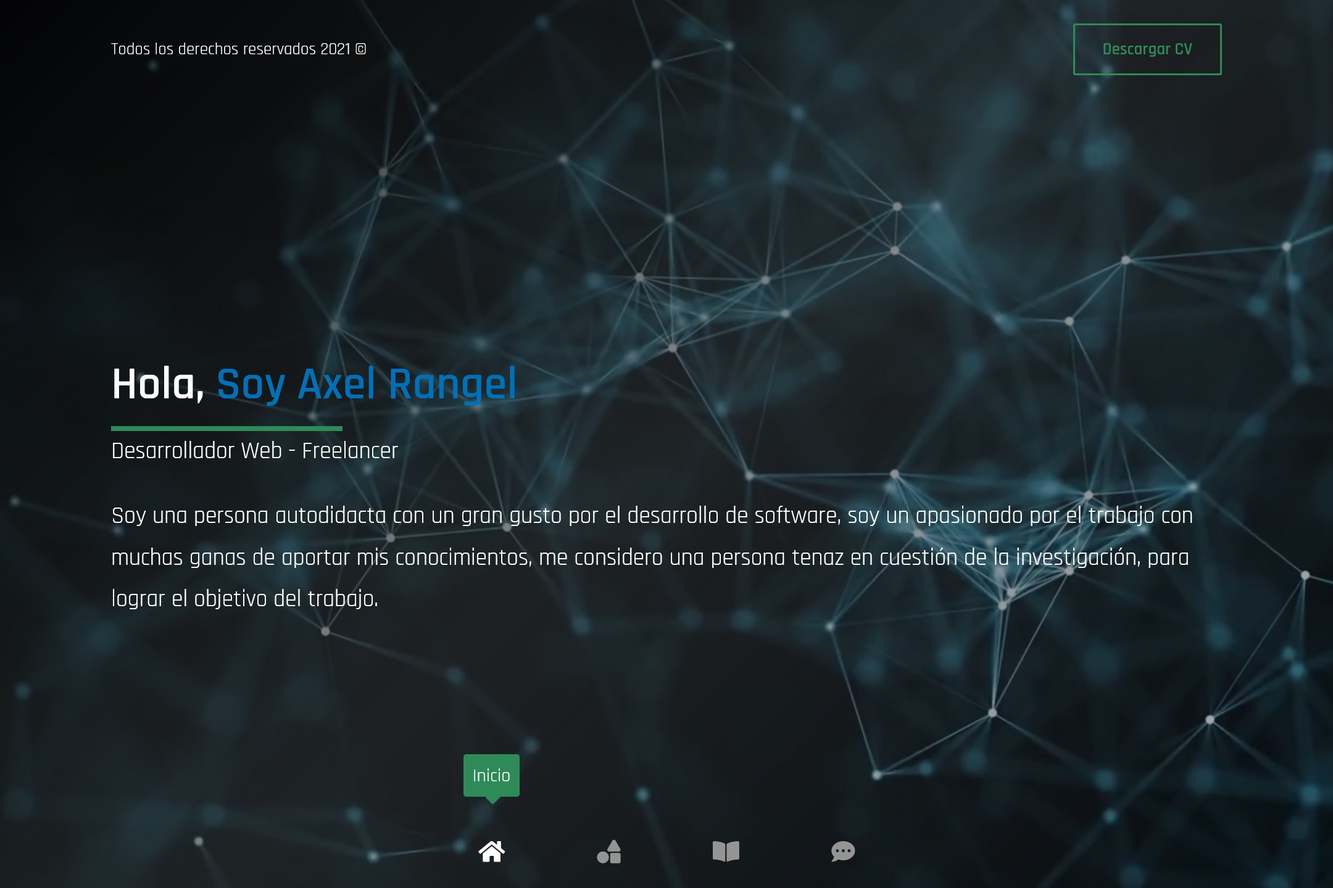
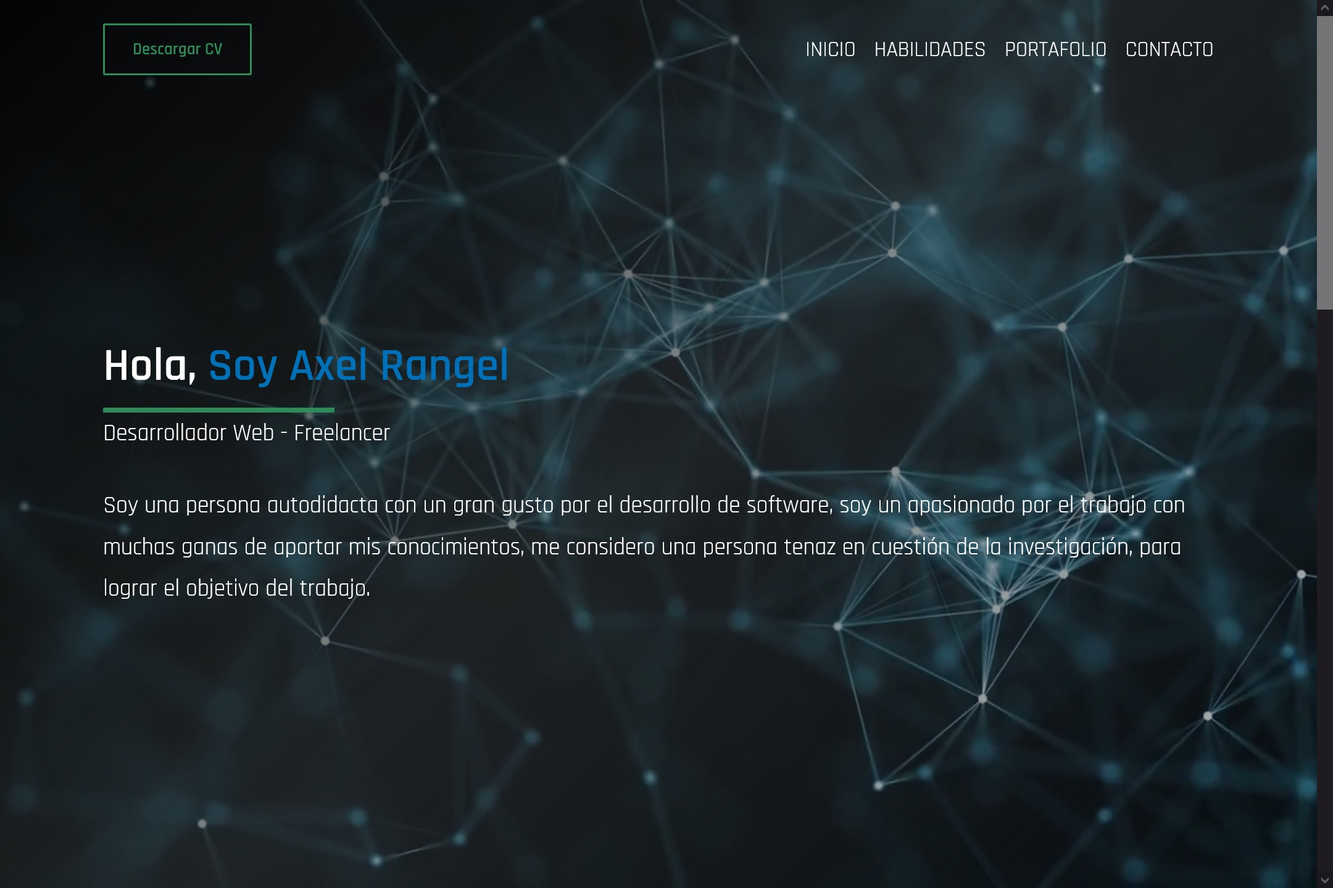
Actualizacion 20 Julio

diff --git a/build/css/app.css b/build/css/app.css
@@ -1,2 +1,2 @@
-/*! normalize.css v8.0.1 | MIT License | github.com/necolas/normalize.css */@import url("https://fonts.googleapis.com/css2?family=Rajdhani:wght@300;400;600;700&display=swap");html{-webkit-text-size-adjust:100%;line-height:1.15}body{margin:0}main{display:block}h1{font-size:2em;margin:.67em 0}hr{box-sizing:content-box;height:0;overflow:visible}pre{font-family:monospace,monospace;font-size:1em}a{background-color:transparent}abbr[title]{border-bottom:none;text-decoration:underline;-webkit-text-decoration:underline dotted;text-decoration:underline dotted}b,strong{font-weight:bolder}code,kbd,samp{font-family:monospace,monospace;font-size:1em}small{font-size:80%}sub,sup{font-size:75%;line-height:0;position:relative;vertical-align:baseline}sub{bottom:-.25em}sup{top:-.5em}img{border-style:none}button,input,optgroup,select,textarea{font-family:inherit;font-size:100%;line-height:1.15;margin:0}button,input{overflow:visible}button,select{text-transform:none}[type=button],[type=reset],[type=submit],button{-webkit-appearance:button}[type=button]::-moz-focus-inner,[type=reset]::-moz-focus-inner,[type=submit]::-moz-focus-inner,button::-moz-focus-inner{border-style:none;padding:0}[type=button]:-moz-focusring,[type=reset]:-moz-focusring,[type=submit]:-moz-focusring,button:-moz-focusring{outline:1px dotted ButtonText}fieldset{padding:.35em .75em .625em}legend{box-sizing:border-box;color:inherit;display:table;max-width:100%;padding:0;white-space:normal}progress{vertical-align:baseline}textarea{overflow:auto}[type=checkbox],[type=radio]{box-sizing:border-box;padding:0}[type=number]::-webkit-inner-spin-button,[type=number]::-webkit-outer-spin-button{height:auto}[type=search]{-webkit-appearance:textfield;outline-offset:-2px}[type=search]::-webkit-search-decoration{-webkit-appearance:none}::-webkit-file-upload-button{-webkit-appearance:button;font:inherit}details{display:block}summary{display:list-item}[hidden],template{display:none}.effect-fade{-webkit-animation:fadeAndScale 2.7s cubic-bezier(.39,-1.05,.58,1.95);animation:fadeAndScale 2.7s cubic-bezier(.39,-1.05,.58,1.95);-webkit-animation-delay:-.2s;animation-delay:-.2s;transform-origin:center bottom}.effect-fade-2{-webkit-animation:fadeAndScale .9s cubic-bezier(.39,-1.05,.58,1.95);animation:fadeAndScale .9s cubic-bezier(.39,-1.05,.58,1.95);-webkit-animation-delay:-.5s;animation-delay:-.5s;transform-origin:center center}@-webkit-keyframes fadeAndScale{0%{opacity:0;transform:scale3d(.75,.75,1)}70%{opacity:0;transform:scale3d(.75,.75,1)}to{opacity:1;transform:scaleX(1)}}@keyframes fadeAndScale{0%{opacity:0;transform:scale3d(.75,.75,1)}70%{opacity:0;transform:scale3d(.75,.75,1)}to{opacity:1;transform:scaleX(1)}}html{box-sizing:border-box;font-size:62.5%}*,:after,:before{box-sizing:inherit}body,html{scroll-behavior:smooth}body{background-color:#221f22;font-family:Rajdhani,sans-serif;font-size:1.8rem;line-height:1.8}.contenedor{margin:0 auto;max-width:120rem;width:95%}p{color:#fff;margin:0}ul{list-style:none}a{text-decoration:none}img,picture{display:block;width:100%}h1,h2,h3{font-family:Rajdhani,sans-serif;font-weight:300;margin:0}h1{font-size:3.8rem}h2{font-size:3.4rem}h3{font-size:3rem}h4{font-size:2.6rem}.boton-verde{background-color:transparent;border:2px solid #2e8b57;border-radius:2px;color:#2e8b57;display:inline-block;font-weight:600;padding:1rem 3rem;text-align:center;text-decoration:none;transition:all 1s ease}.boton-verde:hover{background-color:#2e8b57;color:#fff;cursor:pointer}.boton-azul{background-color:transparent;border:2px solid #0070b8;border-radius:2px;color:#0070b8;display:inline-block;font-weight:600;padding:1rem 3rem;text-align:center;text-decoration:none;transition:all 1s ease}.boton-azul:hover{background-color:#0070b8;color:#fff;cursor:pointer}.header{flex-direction:column;height:100vh;position:relative}.header,.row{display:flex;width:100%}.row{align-items:center;margin-top:1.66667rem;padding:2.5rem 0;position:fixed;z-index:10000}.row .contenido-row{align-items:center;display:flex;justify-content:space-between}@media (min-width:1024px){.row{margin-top:0}}.navegacion{align-items:center;display:flex;justify-content:space-between}@media (min-width:1024px){.navegacion .hamburguer,.navegacion .toggler{display:none}}.lista-navegacion{align-items:center;background-color:rgba(34,31,34,.9);display:flex;flex-direction:column;gap:2rem;height:100vh;justify-content:center;left:0;margin:0;padding:0;position:fixed;top:0;transform:translateX(150%);transition:.6s;visibility:hidden;width:100vw}@media (min-width:1024px){.lista-navegacion{background-color:transparent;display:flex;flex-direction:row;height:auto;left:auto;position:static;top:auto;transform:translateX(0);visibility:visible;width:auto}}.lista-navegacion li a{color:#fff;font-size:4rem;font-weight:400;text-transform:uppercase}@media (min-width:1024px){.lista-navegacion li a{--clippy:polygon(0 0,0 0,0 100%,0% 100%);font-size:2.3rem}.lista-navegacion li a:after{background-color:#fff;-webkit-clip-path:var(--clippy);clip-path:var(--clippy);content:"";display:block;height:.3rem;margin-top:-.5rem;transition:-webkit-clip-path .4s;transition:clip-path .4s;transition:clip-path .4s,-webkit-clip-path .4s;width:100%}.lista-navegacion li a:hover{--clippy:polygon(0 0,100% 0,100% 100%,0 100%)}}.toggler{cursor:pointer;opacity:0;z-index:2}.hamburguer,.toggler{border-radius:50%;height:6rem;position:absolute;right:2rem;width:6rem}.hamburguer{align-items:center;background-color:#2e8b57;display:flex;justify-content:center;z-index:1}.hamburguer div{width:60%}.hamburguer div,.hamburguer div:after,.hamburguer div:before{background-color:#fff;border-radius:1.5px;height:.3rem;position:absolute}.hamburguer div:after,.hamburguer div:before{content:"";width:100%}.hamburguer div:before{top:-1rem}.hamburguer div:after{top:1rem}.toggler:checked~.lista-navegacion{transform:translateX(0);visibility:visible}@media (min-width:1024px){.fijo{background-color:#171517;width:100%}}.none{display:none}@media (min-width:1024px){.none{display:inline-block}}.seccion-inicio{height:100%;position:absolute;width:100%}.video{height:100%;overflow:hidden;position:relative;width:100%}.video .overlay{background:linear-gradient(135deg,rgba(2,0,0,.81),rgba(7,6,6,.81) 6%,rgba(47,47,47,.58) 50%,rgba(7,5,7,.31));display:flex;filter:progid:DXImageTransform.Microsoft.gradient(startColorstr="#cf020000",endColorstr="#4f070507",GradientType=1);flex-direction:column;height:100%;position:absolute;width:100%}.video video{display:block;height:100%;width:auto}.contenido-video{display:flex;flex-direction:column;height:100%;justify-content:center;margin-top:5rem;position:relative}.contenido-video h1{color:#fff;font-size:3.33333rem;font-weight:600;position:relative;width:45rem}.contenido-video h1 span{color:#0070b8}@media (min-width:768px){.contenido-video h1{font-size:5rem}}.contenido-video h1:after,.contenido-video h1:before{bottom:0;content:"";left:0;position:absolute;right:0;top:0}.contenido-video h1:before{-webkit-animation:typewriter 2s ease forwards;animation:typewriter 2s ease forwards;background-color:#0070b8}.contenido-video .titulo{margin-bottom:3.33333rem}.contenido-video .titulo:before{background-color:#2e8b57;content:"";display:block;height:.5rem;width:15rem}@media (min-width:768px){.contenido-video .titulo:before{width:25rem}}.contenido-video p{font-size:2rem}@media (min-width:768px){.contenido-video p{font-size:2.5rem}}@-webkit-keyframes typewriter{to{left:100%}}@keyframes typewriter{to{left:100%}}.contenido-habilidades h2{align-items:center;color:#fff;display:flex;flex-direction:column;font-size:3.33333rem;font-weight:400;margin-top:2.5rem;text-align:center}.contenido-habilidades h2:after{background-color:#fff;content:"";display:block;height:.2rem;width:30rem}.contenido-habilidades .iconos-habilidades{display:grid;gap:2.5rem;grid-template-columns:repeat(2,1fr);margin-top:5rem}.contenido-habilidades .iconos-habilidades .skill{border-radius:1rem;cursor:pointer;width:10rem}.contenido-habilidades .iconos-habilidades .skill img{border-radius:1rem}@media (min-width:768px){.contenido-habilidades .iconos-habilidades .skill{width:18rem}.contenido-habilidades .iconos-habilidades{display:grid;gap:5rem;grid-template-columns:repeat(3,1fr);margin-top:10rem}}@media (min-width:1024px){.contenido-habilidades .iconos-habilidades{display:grid;gap:5rem;grid-template-columns:repeat(4,1fr)}}.descripcion-skill{align-items:center;background-color:hsla(0,0%,100%,.8);border-radius:2rem;display:flex;flex-direction:column;height:auto;justify-content:center;padding:0 1rem;width:30rem}.descripcion-skill h4{margin:1.66667rem 0;text-align:center}.descripcion-skill p{color:#221f22;font-size:2rem;margin-bottom:5rem;text-align:center}.overlay-skill{align-items:center;background-color:rgba(34,31,34,.5);gap:2.5rem;height:100%;justify-content:center;position:fixed;top:0;width:100%;z-index:5}.overlay-skill,.portafolio,.portafolio h2{display:flex;flex-direction:column}.portafolio h2{align-items:center;color:#fff;font-size:3.33333rem;font-weight:400;margin-top:2.5rem;text-align:center}.portafolio h2:after{background-color:#fff;content:"";display:block;height:.2rem;width:30rem}.apartado-portafolio{display:grid;gap:5rem;grid-template-columns:repeat(1,1fr);margin-top:3.33333rem}@media (min-width:768px){.apartado-portafolio{display:grid;gap:2.5rem;grid-template-columns:repeat(2,1fr)}}@media (min-width:1024px){.apartado-portafolio{display:grid;gap:2.5rem;grid-template-columns:repeat(4,1fr)}}.apartado-portafolio .proyecto{background-color:#1a181a;display:flex;flex-direction:column-reverse;gap:1rem;padding-bottom:2rem}@media (min-width:1024px){.apartado-portafolio .proyecto{display:block;padding-bottom:0;position:relative}.apartado-portafolio .proyecto:hover .datos-proyecto{height:100%}.apartado-portafolio .proyecto:hover .enlaces,.apartado-portafolio .proyecto:hover .iconos{opacity:1;visibility:visible}}.apartado-portafolio .proyecto .imagen{height:100%;width:auto}.datos-proyecto{align-items:center;background-color:#1a181a;display:flex;flex-direction:column;height:auto;justify-content:center;width:100%}@media (min-width:1024px){.datos-proyecto{background-color:rgba(34,31,34,.7);height:0;position:absolute;transition:height 1s ease}}.datos-proyecto .iconos{display:flex;gap:.5rem;margin-bottom:2.5rem}.datos-proyecto .iconos picture{align-items:center;display:flex;height:3.33333rem;justify-content:center;width:3.33333rem}@media (min-width:1024px){.datos-proyecto .iconos{opacity:0;transition:all 1s ease;visibility:hidden}}.datos-proyecto .enlaces{align-items:center;display:flex;gap:1.6rem;justify-content:center;width:100%}@media (min-width:1024px){.datos-proyecto .enlaces{opacity:0;transition:all 1s ease;visibility:hidden}}.datos-proyecto .enlaces a{background-color:#fff;border-radius:2px;color:#221f22;display:inline-block;font-size:1.6rem;padding:.5rem 5rem;text-align:center;transition:all .5s ease}.datos-proyecto .enlaces a:hover{background-color:#2e8b57;color:#fff}@media (min-width:1024px){.datos-proyecto .enlaces a{padding:.5rem 2.5rem}}.contacto{height:100%}.contacto,.contacto h2{display:flex;flex-direction:column}.contacto h2{align-items:center;color:#fff;font-size:3.33333rem;font-weight:400;margin-top:2.5rem;text-align:center}.contacto h2:after{background-color:#fff;content:"";display:block;height:.2rem;width:30rem}.contenido-contacto{display:flex;flex-direction:column;height:100%;justify-content:center}.contenido-contacto .formulario{display:flex;flex-direction:column;margin-top:5rem}.contenido-contacto .formulario input[type=submit]{margin-bottom:2.5rem}@media (min-width:768px){.contenido-contacto .formulario input[type=submit]{margin-top:0;width:20rem}}.contenido-contacto .redes{display:flex;gap:2.5rem;justify-content:center;margin-bottom:2.5rem}.contenido-contacto .redes a{color:hsla(0,0%,58%,.4);font-size:3.5rem}.contenido-contacto .redes a:hover{color:#0070b8}.dato{margin-bottom:2.5rem;padding:1rem 0}.dato,.dato .input-dato{background-color:#221f22;width:100%}.dato .input-dato{height:4rem;position:relative}.dato .input-dato input:not([type=submit]),.dato .input-dato textarea{background-color:#221f22;border:none;border-bottom:1px solid #949494;color:#fff;font-size:1.7rem;height:100%;outline:none;width:100%}.dato .input-dato input:not([type=submit]):focus~label,.dato .input-dato input:not([type=submit]):valid~label,.dato .input-dato textarea:focus~label,.dato .input-dato textarea:valid~label{color:#2e8b57;font-size:1.5rem;transform:translateY(-2rem)}.dato .input-dato label{bottom:1.5rem;color:#949494;font-size:2rem;left:0;pointer-events:none;position:absolute;transition:all .3s ease}.dato .input-dato .linea{bottom:0;height:.2rem;position:absolute;width:100%}.dato .input-dato .linea:before{background-color:#2e8b57;content:"";height:100%;position:absolute;transform:scaleX(0);transition:transform .6s ease;width:100%}.dato .input-dato input:not([type=submit]):focus~.linea:before,.dato .input-dato input:not([type=submit]):valid~.linea:before,.dato .input-dato textarea:focus~.linea:before,.dato .input-dato textarea:valid~.linea:before{transform:scaleX(1)}.ob{display:none}.obligatorio{font-size:3.33333rem;font-weight:600}.error-suma,.obligatorio{color:#dc001a;display:inline-block}.footer{background-color:#171517;padding:2.5rem 0}.footer p{text-align:center}
+/*! normalize.css v8.0.1 | MIT License | github.com/necolas/normalize.css */@import url("https://fonts.googleapis.com/css2?family=Rajdhani:wght@300;400;600;700&display=swap");html{-webkit-text-size-adjust:100%;line-height:1.15}body{margin:0}main{display:block}h1{font-size:2em;margin:.67em 0}hr{box-sizing:content-box;height:0;overflow:visible}pre{font-family:monospace,monospace;font-size:1em}a{background-color:transparent}abbr[title]{border-bottom:none;text-decoration:underline;-webkit-text-decoration:underline dotted;text-decoration:underline dotted}b,strong{font-weight:bolder}code,kbd,samp{font-family:monospace,monospace;font-size:1em}small{font-size:80%}sub,sup{font-size:75%;line-height:0;position:relative;vertical-align:baseline}sub{bottom:-.25em}sup{top:-.5em}img{border-style:none}button,input,optgroup,select,textarea{font-family:inherit;font-size:100%;line-height:1.15;margin:0}button,input{overflow:visible}button,select{text-transform:none}[type=button],[type=reset],[type=submit],button{-webkit-appearance:button}[type=button]::-moz-focus-inner,[type=reset]::-moz-focus-inner,[type=submit]::-moz-focus-inner,button::-moz-focus-inner{border-style:none;padding:0}[type=button]:-moz-focusring,[type=reset]:-moz-focusring,[type=submit]:-moz-focusring,button:-moz-focusring{outline:1px dotted ButtonText}fieldset{padding:.35em .75em .625em}legend{box-sizing:border-box;color:inherit;display:table;max-width:100%;padding:0;white-space:normal}progress{vertical-align:baseline}textarea{overflow:auto}[type=checkbox],[type=radio]{box-sizing:border-box;padding:0}[type=number]::-webkit-inner-spin-button,[type=number]::-webkit-outer-spin-button{height:auto}[type=search]{-webkit-appearance:textfield;outline-offset:-2px}[type=search]::-webkit-search-decoration{-webkit-appearance:none}::-webkit-file-upload-button{-webkit-appearance:button;font:inherit}details{display:block}summary{display:list-item}[hidden],template{display:none}.effect-fade{-webkit-animation:fadeAndScale 2.7s cubic-bezier(.39,-1.05,.58,1.95);animation:fadeAndScale 2.7s cubic-bezier(.39,-1.05,.58,1.95);-webkit-animation-delay:-.2s;animation-delay:-.2s;transform-origin:center bottom}.effect-fade-2{-webkit-animation:fadeAndScale .9s cubic-bezier(.39,-1.05,.58,1.95);animation:fadeAndScale .9s cubic-bezier(.39,-1.05,.58,1.95);-webkit-animation-delay:-.5s;animation-delay:-.5s;transform-origin:center center}@-webkit-keyframes fadeAndScale{0%{opacity:0;transform:scale3d(.75,.75,1)}70%{opacity:0;transform:scale3d(.75,.75,1)}to{opacity:1;transform:scaleX(1)}}@keyframes fadeAndScale{0%{opacity:0;transform:scale3d(.75,.75,1)}70%{opacity:0;transform:scale3d(.75,.75,1)}to{opacity:1;transform:scaleX(1)}}html{box-sizing:border-box;font-size:62.5%}*,:after,:before{box-sizing:inherit}body,html{scroll-behavior:smooth}body{background-color:#221f22;font-family:Rajdhani,sans-serif;font-size:1.8rem;line-height:1.8}.contenedor{margin:0 auto;max-width:120rem;width:95%}p{color:#fff;margin:0}ul{list-style:none}a{text-decoration:none}img,picture{display:block;width:100%}h1,h2,h3{font-family:Rajdhani,sans-serif;font-weight:300;margin:0}h1{font-size:3.8rem}h2{font-size:3.4rem}h3{font-size:3rem}h4{font-size:2.6rem}.boton-verde{background-color:transparent;border:2px solid #2e8b57;border-radius:2px;color:#2e8b57;display:inline-block;font-weight:600;padding:1rem 3rem;text-align:center;text-decoration:none;transition:all 1s ease}.boton-verde:hover{background-color:#2e8b57;color:#fff;cursor:pointer}.boton-azul{background-color:transparent;border:2px solid #0070b8;border-radius:2px;color:#0070b8;display:inline-block;font-weight:600;padding:1rem 3rem;text-align:center;text-decoration:none;transition:all 1s ease}.boton-azul:hover{background-color:#0070b8;color:#fff;cursor:pointer}.header{flex-direction:column;height:100vh;position:relative}.header,.row{display:flex;width:100%}.row{align-items:center;margin-top:1.66667rem;padding:2.5rem 0;position:fixed;z-index:5}.row .contenido-row{align-items:center;display:flex;justify-content:space-between}@media (min-width:1024px){.row{margin-top:0}}.navegacion{align-items:center;display:flex;justify-content:space-between}@media (min-width:1024px){.navegacion .hamburguer,.navegacion .toggler{display:none}}.lista-navegacion{align-items:center;background-color:rgba(34,31,34,.9);display:flex;flex-direction:column;gap:2rem;height:100vh;justify-content:center;left:0;margin:0;padding:0;position:fixed;top:0;transform:translateX(150%);transition:.6s;visibility:hidden;width:100vw}@media (min-width:1024px){.lista-navegacion{background-color:transparent;display:flex;flex-direction:row;height:auto;left:auto;position:static;top:auto;transform:translateX(0);visibility:visible;width:auto}}.lista-navegacion li a{color:#fff;font-size:4rem;font-weight:400;text-transform:uppercase}@media (min-width:1024px){.lista-navegacion li a{--clippy:polygon(0 0,0 0,0 100%,0% 100%);font-size:2.3rem}.lista-navegacion li a:after{background-color:#fff;-webkit-clip-path:var(--clippy);clip-path:var(--clippy);content:"";display:block;height:.3rem;margin-top:-.5rem;transition:-webkit-clip-path .4s;transition:clip-path .4s;transition:clip-path .4s,-webkit-clip-path .4s;width:100%}.lista-navegacion li a:hover{--clippy:polygon(0 0,100% 0,100% 100%,0 100%)}}.lista-navegacion.posicion{transform:translateX(0);visibility:visible}.toggler{cursor:pointer;opacity:0;z-index:2}.hamburguer,.toggler{border-radius:50%;height:6rem;position:absolute;right:2rem;width:6rem}.hamburguer{align-items:center;background-color:#2e8b57;display:flex;justify-content:center;z-index:1}.hamburguer div{width:60%}.hamburguer div,.hamburguer div:after,.hamburguer div:before{background-color:#fff;border-radius:1.5px;height:.3rem;position:absolute}.hamburguer div:after,.hamburguer div:before{content:"";width:100%}.hamburguer div:before{top:-1rem}.hamburguer div:after{top:1rem}@media (min-width:1024px){.fijo{background-color:#171517;width:100%}}.none{display:none}@media (min-width:1024px){.none{display:inline-block}}.seccion-inicio{height:100%;position:absolute;width:100%}.video{height:100%;overflow:hidden;position:relative;width:100%}.video .overlay{background:linear-gradient(135deg,rgba(2,0,0,.81),rgba(7,6,6,.81) 6%,rgba(47,47,47,.58) 50%,rgba(7,5,7,.31));display:flex;filter:progid:DXImageTransform.Microsoft.gradient(startColorstr="#cf020000",endColorstr="#4f070507",GradientType=1);flex-direction:column;height:100%;position:absolute;width:100%}.video video{display:block;height:100%;width:auto}.contenido-video{display:flex;flex-direction:column;height:100%;justify-content:center;margin-top:5rem;position:relative}.contenido-video h1{color:#fff;font-size:3.33333rem;font-weight:600;position:relative;width:45rem}.contenido-video h1 span{color:#0070b8}@media (min-width:768px){.contenido-video h1{font-size:5rem}}.contenido-video h1:after,.contenido-video h1:before{bottom:0;content:"";left:0;position:absolute;right:0;top:0}.contenido-video h1:before{-webkit-animation:typewriter 2s ease forwards;animation:typewriter 2s ease forwards;background-color:#0070b8}.contenido-video .titulo{margin-bottom:3.33333rem}.contenido-video .titulo:before{background-color:#2e8b57;content:"";display:block;height:.5rem;width:15rem}@media (min-width:768px){.contenido-video .titulo:before{width:25rem}}.contenido-video p{font-size:2rem}@media (min-width:768px){.contenido-video p{font-size:2.5rem}}@-webkit-keyframes typewriter{to{left:100%}}@keyframes typewriter{to{left:100%}}.contenido-habilidades h2{align-items:center;color:#fff;display:flex;flex-direction:column;font-size:3.33333rem;font-weight:400;margin-top:2.5rem;text-align:center}.contenido-habilidades h2:after{background-color:#fff;content:"";display:block;height:.2rem;width:30rem}.contenido-habilidades .iconos-habilidades{display:grid;gap:2.5rem;grid-template-columns:repeat(2,1fr);margin-top:5rem}.contenido-habilidades .iconos-habilidades .skill{border-radius:1rem;cursor:pointer;width:10rem}.contenido-habilidades .iconos-habilidades .skill img{border-radius:1rem}@media (min-width:768px){.contenido-habilidades .iconos-habilidades .skill{width:18rem}.contenido-habilidades .iconos-habilidades{display:grid;gap:5rem;grid-template-columns:repeat(3,1fr);margin-top:10rem}}@media (min-width:1024px){.contenido-habilidades .iconos-habilidades{display:grid;gap:5rem;grid-template-columns:repeat(4,1fr)}}.descripcion-skill{align-items:center;background-color:hsla(0,0%,100%,.8);border-radius:2rem;display:flex;flex-direction:column;height:auto;justify-content:center;padding:0 1rem;width:30rem}.descripcion-skill h4{margin:1.66667rem 0;text-align:center}.descripcion-skill p{color:#221f22;font-size:2rem;margin-bottom:5rem;text-align:center}.overlay-skill{align-items:center;background-color:rgba(34,31,34,.5);gap:2.5rem;height:100%;justify-content:center;position:fixed;top:0;width:100%;z-index:10}.overlay-skill,.portafolio,.portafolio h2{display:flex;flex-direction:column}.portafolio h2{align-items:center;color:#fff;font-size:3.33333rem;font-weight:400;margin-top:2.5rem;text-align:center}.portafolio h2:after{background-color:#fff;content:"";display:block;height:.2rem;width:30rem}.apartado-portafolio{display:grid;gap:5rem;grid-template-columns:repeat(1,1fr);margin-top:3.33333rem}@media (min-width:768px){.apartado-portafolio{display:grid;gap:2.5rem;grid-template-columns:repeat(2,1fr)}}@media (min-width:1024px){.apartado-portafolio{display:grid;gap:2.5rem;grid-template-columns:repeat(4,1fr)}}.apartado-portafolio .proyecto{background-color:#1a181a;display:flex;flex-direction:column-reverse;gap:1rem;padding-bottom:2rem}@media (min-width:1024px){.apartado-portafolio .proyecto{display:block;padding-bottom:0;position:relative}.apartado-portafolio .proyecto:hover .datos-proyecto{height:100%}.apartado-portafolio .proyecto:hover .enlaces,.apartado-portafolio .proyecto:hover .iconos{opacity:1;visibility:visible}}.apartado-portafolio .proyecto .imagen{height:100%;width:auto}.datos-proyecto{align-items:center;background-color:#1a181a;display:flex;flex-direction:column;height:auto;justify-content:center;width:100%}@media (min-width:1024px){.datos-proyecto{background-color:rgba(34,31,34,.7);height:0;position:absolute;transition:height 1s ease}}.datos-proyecto .iconos{display:flex;gap:.5rem;margin-bottom:2.5rem}.datos-proyecto .iconos picture{align-items:center;display:flex;height:3.33333rem;justify-content:center;width:3.33333rem}@media (min-width:1024px){.datos-proyecto .iconos{opacity:0;transition:all 1s ease;visibility:hidden}}.datos-proyecto .enlaces{align-items:center;display:flex;gap:1.6rem;justify-content:center;width:100%}@media (min-width:1024px){.datos-proyecto .enlaces{opacity:0;transition:all 1s ease;visibility:hidden}}.datos-proyecto .enlaces a{background-color:#fff;border-radius:2px;color:#221f22;display:inline-block;font-size:1.6rem;padding:.5rem 5rem;text-align:center;transition:all .5s ease}.datos-proyecto .enlaces a:hover{background-color:#2e8b57;color:#fff}@media (min-width:1024px){.datos-proyecto .enlaces a{padding:.5rem 2.5rem}}.contacto{height:100%}.contacto,.contacto h2{display:flex;flex-direction:column}.contacto h2{align-items:center;color:#fff;font-size:3.33333rem;font-weight:400;margin-top:2.5rem;text-align:center}.contacto h2:after{background-color:#fff;content:"";display:block;height:.2rem;width:30rem}.contenido-contacto{display:flex;flex-direction:column;height:100%;justify-content:center}.contenido-contacto .formulario{display:flex;flex-direction:column;gap:2.5rem;margin-top:5rem}.contenido-contacto .formulario input[type=submit]{margin-bottom:2.5rem}@media (min-width:768px){.contenido-contacto .formulario input[type=submit]{margin-top:0;width:20rem}}.contenido-contacto .redes{display:flex;gap:2.5rem;justify-content:center;margin-bottom:2.5rem}.contenido-contacto .redes a{color:hsla(0,0%,58%,.4);font-size:3.5rem}.contenido-contacto .redes a:hover{color:#0070b8}.dato{margin-bottom:2.5rem;padding:1rem 0}.dato,.dato .input-dato{background-color:#221f22;width:100%}.dato .input-dato{height:4rem;position:relative}.dato .input-dato input:not([type=submit]),.dato .input-dato textarea{background-color:#221f22;border:none;border-bottom:1px solid #949494;color:#fff;font-size:1.7rem;height:100%;outline:none;width:100%}.dato .input-dato input:not([type=submit]):focus~label,.dato .input-dato input:not([type=submit]):valid~label,.dato .input-dato textarea:focus~label,.dato .input-dato textarea:valid~label{color:#2e8b57;font-size:1.5rem;transform:translateY(-2rem)}.dato .input-dato label{bottom:1.5rem;color:#949494;font-size:2rem;left:0;pointer-events:none;position:absolute;transition:all .3s ease}.dato .input-dato .linea{bottom:0;height:.2rem;position:absolute;width:100%}.dato .input-dato .linea:before{background-color:#2e8b57;content:"";height:100%;position:absolute;transform:scaleX(0);transition:transform .6s ease;width:100%}.dato .input-dato input:not([type=submit]):focus~.linea:before,.dato .input-dato input:not([type=submit]):valid~.linea:before,.dato .input-dato textarea:focus~.linea:before,.dato .input-dato textarea:valid~.linea:before{transform:scaleX(1)}.ob{display:none}.obligatorio{font-size:3.33333rem;font-weight:600}.error-suma,.obligatorio{color:#dc001a;display:inline-block}.footer{background-color:#171517;padding:2.5rem 0}.footer p{text-align:center}
 /*# sourceMappingURL=app.css.map */

diff --git a/build/js/bundle.min.js b/build/js/bundle.min.js
@@ -1,2 +1,2 @@
-function navegacionFija(){const e=document.querySelector(".row"),t=document.querySelector(".boton-cv");new IntersectionObserver((function(o){o[0].isIntersecting?(e.classList.remove("fijo"),t.classList.remove("none")):(e.classList.add("fijo"),t.classList.add("none"))})).observe(document.querySelector(".titulo-inicio"))}function navegacionHamburguer(){const e=document.querySelector(".navegacion"),t=document.querySelector(".contenido-navegacion");t.classList.contains("enlaces-activo")?(t.classList.remove("enlaces-activo"),setTimeout(()=>{e.classList.remove("posicion")},400)):(e.classList.add("posicion"),t.classList.add("enlaces-activo"))}function clickHamburguer(){const e=document.querySelector(".toggler");e.addEventListener("click",(function(){e.classList.contains("cheked")?e.classList.remove("cheked"):e.classList.add("cheked"),navegacionHamburguer()}))}function clickEnlace(){const e=document.querySelector(".toggler");document.querySelectorAll(".contenido-navegacion").forEach(t=>{t.addEventListener("click",()=>{e.classList.contains("cheked")?e.classList.remove("cheked"):e.classList.add("cheked"),navegacionHamburguer()})})}async function crearHabilidades(){try{const e="build/img/skills/",t=await fetch("./data.json"),o=await t.json(),{skills:n}=o,a=document.querySelector(".iconos-habilidades");n.forEach(t=>{const{id:o,icon:n,name:c,description:i}=t,s=document.createElement("IMG");s.src=e+n,s.alt="Imagen Skill",s.title=c,s.dataset.imagenId=o,s.dataset.imagenName=c,s.dataset.imagenDescription=i,s.onclick=mostrarInformacionHabilidad;const l=document.createElement("LI");l.classList.add("skill"),l.appendChild(s),a.appendChild(l)})}catch(e){console.log(e)}}function mostrarInformacionHabilidad(e){const t=document.createElement("H4");t.textContent=e.target.dataset.imagenName;const o=document.createElement("P");o.textContent=e.target.dataset.imagenDescription;const n=document.createElement("DIV");n.classList.add("descripcion-skill"),n.appendChild(t),n.appendChild(o);const a=document.createElement("DIV");a.appendChild(n),a.classList.add("overlay-skill"),a.classList.add("effect-fade-2"),a.onclick=function(){a.remove(),c.classList.remove("fijar-body")};const c=document.querySelector("body");c.appendChild(a),c.classList.add("fijar-body")}async function crearPortafolio(){try{const e="build/img/portafolio/",t="build/img/tecnologias/",o=await fetch("./data.json"),n=await o.json(),{portafolio:a}=n,c=document.querySelector(".apartado-portafolio");a.forEach(o=>{const{imagen:n,repositorio:a,pagina:i,tecnologias:s}=o,l=document.createElement("DIV");l.classList.add("iconos");for(let e=0;e<s.length;e++){const o=document.createElement("SOURCE");o.srcset=t+s[e]+".webp",o.type="image/webp";const n=document.createElement("SOURCE");n.srcset=t+s[e]+".png",n.type="image/png";const a=document.createElement("IMG");a.type="lazy",a.src=t+s[e]+".png",a.alt="Imagen Tecnologia";const c=document.createElement("PICTURE");c.appendChild(o),c.appendChild(n),c.appendChild(a),l.appendChild(c)}const r=document.createElement("A");r.textContent="Pagina",r.href=i,r.target="_blank";const d=document.createElement("A");d.textContent="Repositorio",d.href=a,d.target="_blank";const u=document.createElement("DIV");u.classList.add("enlaces"),u.appendChild(r),u.appendChild(d);const m=document.createElement("DIV");m.classList.add("datos-proyecto"),m.appendChild(l),m.appendChild(u);const p=document.createElement("SOURCE");p.srcset=e+n+".webp",p.type="image/webp";const g=document.createElement("SOURCE");g.srcset=e+n+".jpg",g.type="image/jpeg";const v=document.createElement("IMG");v.loading="lazy",v.src=e+n+".jpg",v.alt="Imagen Cliente";const b=document.createElement("PICTURE");b.appendChild(p),b.appendChild(g),b.appendChild(v);const y=document.createElement("DIV");y.classList.add("imagen"),y.appendChild(b);const L=document.createElement("DIV");L.classList.add("proyecto"),L.appendChild(m),L.appendChild(y),c.appendChild(L)})}catch(e){console.log(e)}}function validarFormulario(){const e=document.querySelector("#boton-enviar"),t=document.querySelector("#nombre"),o=document.querySelector(".ob-nombre"),n=document.querySelector("#correo"),a=document.querySelector(".ob-correo"),c=document.querySelector("#asunto"),i=document.querySelector(".ob-asunto"),s=document.querySelector("#mensaje"),l=document.querySelector(".ob-mensaje"),r=(document.querySelector("#numero1"),document.querySelector("#numero2"),document.querySelector("#numero")),d=(document.querySelector(".suma"),document.querySelector(".ob-numero"));e.addEventListener("click",(function(){return""==t.value||null==t.value?(o.classList.add("obligatorio"),!1):(o.classList.remove("obligatorio"),""==n.value||null==n.value?(a.classList.add("obligatorio"),!1):(a.classList.remove("obligatorio"),""==c.value||null==c.value?(i.classList.add("obligatorio"),!1):(i.classList.remove("obligatorio"),""==s.value||null==s.value?(l.classList.add("obligatorio"),!1):(l.classList.remove("obligatorio"),""==r.value||null==r.value?(d.classList.add("obligatorio"),!1):void d.classList.remove("obligatorio")))))}))}function obtenerAño(){const e=document.querySelector(".year");var t=(new Date).getFullYear();e.textContent=t}document.addEventListener("DOMContentLoaded",(function(){navegacionFija(),crearHabilidades(),crearPortafolio(),validarFormulario(),obtenerAño()}));
+function navegacionFija(){const e=document.querySelector(".row"),t=document.querySelector(".boton-cv");new IntersectionObserver((function(o){o[0].isIntersecting?(e.classList.remove("fijo"),t.classList.remove("none")):(e.classList.add("fijo"),t.classList.add("none"))})).observe(document.querySelector(".titulo-inicio"))}function clickHamburguer(){const e=document.querySelector(".toggler"),t=document.querySelector(".lista-navegacion"),o=document.querySelectorAll(".lista");e.addEventListener("click",(function(){t.classList.toggle("posicion")})),o.forEach(e=>{e.addEventListener("click",()=>{t.classList.toggle("posicion")})})}async function crearHabilidades(){try{const e="build/img/skills/",t=await fetch("./data.json"),o=await t.json(),{skills:n}=o,a=document.querySelector(".iconos-habilidades");n.forEach(t=>{const{id:o,icon:n,name:c,description:l}=t,i=document.createElement("IMG");i.src=e+n,i.alt="Imagen Skill",i.title=c,i.dataset.imagenId=o,i.dataset.imagenName=c,i.dataset.imagenDescription=l,i.onclick=mostrarInformacionHabilidad;const r=document.createElement("LI");r.classList.add("skill"),r.appendChild(i),a.appendChild(r)})}catch(e){console.log(e)}}function mostrarInformacionHabilidad(e){const t=document.createElement("H4");t.textContent=e.target.dataset.imagenName;const o=document.createElement("P");o.textContent=e.target.dataset.imagenDescription;const n=document.createElement("DIV");n.classList.add("descripcion-skill"),n.appendChild(t),n.appendChild(o);const a=document.createElement("DIV");a.appendChild(n),a.classList.add("overlay-skill"),a.classList.add("effect-fade-2"),a.onclick=function(){a.remove(),c.classList.remove("fijar-body")};const c=document.querySelector("body");c.appendChild(a),c.classList.add("fijar-body")}async function crearPortafolio(){try{const e="build/img/portafolio/",t="build/img/tecnologias/",o=await fetch("./data.json"),n=await o.json(),{portafolio:a}=n,c=document.querySelector(".apartado-portafolio");a.forEach(o=>{const{imagen:n,repositorio:a,pagina:l,tecnologias:i}=o,r=document.createElement("DIV");r.classList.add("iconos");for(let e=0;e<i.length;e++){const o=document.createElement("SOURCE");o.srcset=t+i[e]+".webp",o.type="image/webp";const n=document.createElement("SOURCE");n.srcset=t+i[e]+".png",n.type="image/png";const a=document.createElement("IMG");a.type="lazy",a.src=t+i[e]+".png",a.alt="Imagen Tecnologia";const c=document.createElement("PICTURE");c.appendChild(o),c.appendChild(n),c.appendChild(a),r.appendChild(c)}const s=document.createElement("A");s.textContent="Pagina",s.href=l,s.target="_blank";const d=document.createElement("A");d.textContent="Repositorio",d.href=a,d.target="_blank";const u=document.createElement("DIV");u.classList.add("enlaces"),u.appendChild(s),u.appendChild(d);const m=document.createElement("DIV");m.classList.add("datos-proyecto"),m.appendChild(r),m.appendChild(u);const p=document.createElement("SOURCE");p.srcset=e+n+".webp",p.type="image/webp";const g=document.createElement("SOURCE");g.srcset=e+n+".jpg",g.type="image/jpeg";const b=document.createElement("IMG");b.loading="lazy",b.src=e+n+".jpg",b.alt="Imagen Cliente";const y=document.createElement("PICTURE");y.appendChild(p),y.appendChild(g),y.appendChild(b);const v=document.createElement("DIV");v.classList.add("imagen"),v.appendChild(y);const f=document.createElement("DIV");f.classList.add("proyecto"),f.appendChild(m),f.appendChild(v),c.appendChild(f)})}catch(e){console.log(e)}}function validarFormulario(){const e=document.querySelector("#boton-enviar"),t=document.querySelector("#nombre"),o=document.querySelector(".ob-nombre"),n=document.querySelector("#correo"),a=document.querySelector(".ob-correo"),c=document.querySelector("#asunto"),l=document.querySelector(".ob-asunto"),i=document.querySelector("#mensaje"),r=document.querySelector(".ob-mensaje"),s=(document.querySelector("#numero1"),document.querySelector("#numero2"),document.querySelector("#numero")),d=(document.querySelector(".suma"),document.querySelector(".ob-numero"));e.addEventListener("click",(function(){return""==t.value||null==t.value?(o.classList.add("obligatorio"),!1):(o.classList.remove("obligatorio"),""==n.value||null==n.value?(a.classList.add("obligatorio"),!1):(a.classList.remove("obligatorio"),""==c.value||null==c.value?(l.classList.add("obligatorio"),!1):(l.classList.remove("obligatorio"),""==i.value||null==i.value?(r.classList.add("obligatorio"),!1):(r.classList.remove("obligatorio"),""==s.value||null==s.value?(d.classList.add("obligatorio"),!1):void d.classList.remove("obligatorio")))))}))}function obtenerAño(){const e=document.querySelector(".year");var t=(new Date).getFullYear();e.textContent=t}document.addEventListener("DOMContentLoaded",(function(){navegacionFija(),clickHamburguer(),crearHabilidades(),crearPortafolio(),validarFormulario(),obtenerAño()}));
 //# sourceMappingURL=bundle.js.map

diff --git a/src/scss/layout/_navegacion.scss b/src/scss/layout/_navegacion.scss
@@ -5,13 +5,13 @@
     margin-top: $separacion/3;
     display: flex;
     align-items: center;
-    z-index: 10000;
+    z-index: 5;
     .contenido-row {
         display: flex;
         justify-content: space-between;
         align-items: center;
     }
-    @include desktop{
+    @include desktop {
         margin-top: 0;
     }
 }
@@ -32,10 +32,10 @@
     position: fixed;
     top: 0;
     left: 0;
-    transition: .6s;
+    transition: 0.6s;
     width: 100vw;
     height: 100vh;
-    background-color: rgba($negro, .9);
+    background-color: rgba($negro, 0.9);
     margin: 0;
     padding: 0;
     transform: translateX(150%);
@@ -65,24 +65,28 @@
             text-transform: uppercase;
             font-size: 4rem;
             font-weight: $regular;
-            @include desktop{
+            @include desktop {
                 font-size: 2.3rem;
                 --clippy: polygon(0 0, 0 0, 0 100%, 0% 100%);
-                &::after{
-                    content: '';
+                &::after {
+                    content: "";
                     background-color: $blanco;
                     width: 100%;
-                    height: .3rem;
+                    height: 0.3rem;
                     display: block;
-                    margin-top: -.5rem;
+                    margin-top: -0.5rem;
                     clip-path: var(--clippy);
-                    transition: clip-path .4s;
+                    transition: clip-path 0.4s;
                 }
-                &:hover{
+                &:hover {
                     --clippy: polygon(0 0, 100% 0, 100% 100%, 0 100%);
                 }
             }
         }
+    }
+    &.posicion {
+        visibility: visible;
+        transform: translateX(0%);
     }
 }
 
@@ -123,30 +127,25 @@
             border-radius: 1.5px;
             background-color: $blanco;
         }
-        &::before{
+        &::before {
             top: -1rem;
         }
-        &::after{
+        &::after {
             top: 1rem;
         }
     }
 }
 
-.toggler:checked~ .lista-navegacion{
-    visibility: visible;
-    transform: translateX(0%);
-}
-
-.fijo{
-    @include desktop{
+.fijo {
+    @include desktop {
         background-color: darken($negro, 4);
         width: 100%;
     }
 }
 
-.none{
+.none {
     display: none;
-    @include desktop{
+    @include desktop {
         display: inline-block;
     }
 }

diff --git a/src/js/app.js b/src/js/app.js
@@ -1,6 +1,6 @@
 document.addEventListener('DOMContentLoaded', function () {
     navegacionFija();
-    // clickHamburguer();
+    clickHamburguer();
     // clickEnlace();
     crearHabilidades();
     crearPortafolio();
@@ -23,43 +23,17 @@ function navegacionFija() {
     observer.observe(document.querySelector('.titulo-inicio'));
 }
 
-function navegacionHamburguer(){
-    const navegacion = document.querySelector('.navegacion');
-    const enlaces = document.querySelector('.contenido-navegacion');
-    if (enlaces.classList.contains('enlaces-activo')) {
-        enlaces.classList.remove('enlaces-activo');
-        setTimeout(() => {
-            navegacion.classList.remove('posicion');
-        }, 400);
-    } else {
-        navegacion.classList.add('posicion');
-        enlaces.classList.add('enlaces-activo');
-    }
-}
-
 function clickHamburguer() {
     const hamburguer = document.querySelector('.toggler');
+    const enlaces = document.querySelector('.lista-navegacion');
+    const lista = document.querySelectorAll('.lista');
     hamburguer.addEventListener('click', function () {
-        if (hamburguer.classList.contains('cheked')) {
-            hamburguer.classList.remove('cheked');
-        }else{
-            hamburguer.classList.add('cheked');
-        }
-        navegacionHamburguer();
+        enlaces.classList.toggle('posicion');
     });
-}
 
-function clickEnlace(){
-    const hamburguer = document.querySelector('.toggler');
-    const enlaces = document.querySelectorAll('.contenido-navegacion');
-    enlaces.forEach(enlace => {
+    lista.forEach(enlace => {
         enlace.addEventListener('click', () => {
-            if (hamburguer.classList.contains('cheked')) {
-                hamburguer.classList.remove('cheked');
-            }else{
-                hamburguer.classList.add('cheked');
-            }
-            navegacionHamburguer();
+            enlaces.classList.toggle('posicion');
         });
     });
 }

diff --git a/src/scss/layout/_contacto.scss b/src/scss/layout/_contacto.scss
@@ -28,6 +28,7 @@
     justify-content: center;
     .formulario {
         display: flex;
+        gap: $separacion/2;
         flex-direction: column;
         margin-top: $separacion;
         input[type="submit"]{

diff --git a/src/scss/layout/_habilidades.scss b/src/scss/layout/_habilidades.scss
@@ -73,5 +73,5 @@
     justify-content: center;
     align-items: center;
     gap: $separacion/2;
-    z-index: 5;
+    z-index: 10;
 }
